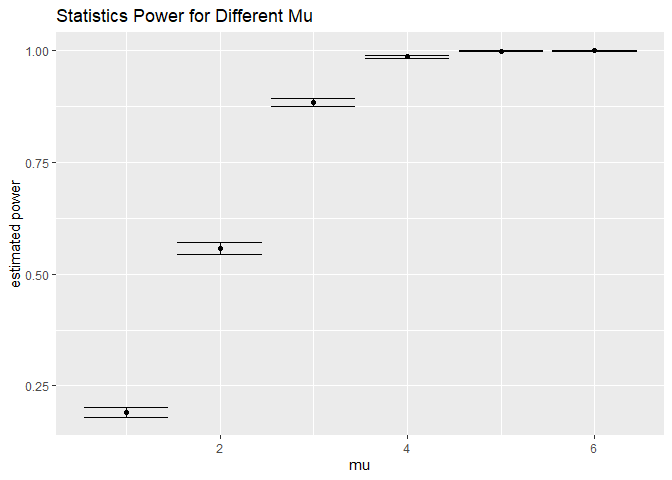
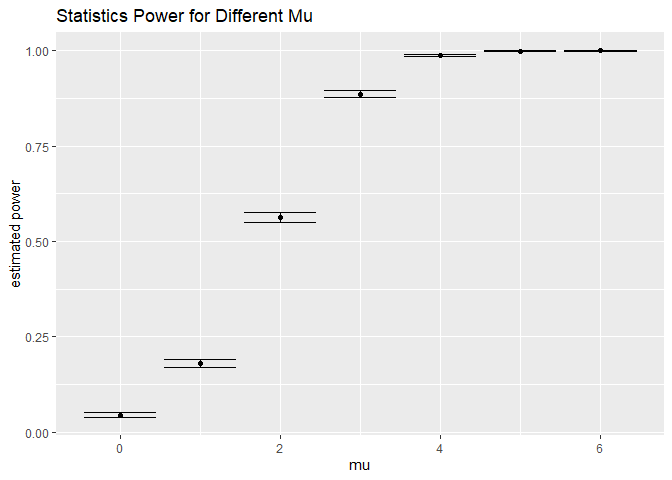
Add mu = 0 to problem 3

diff --git a/p8105_hw5_yj2622.md b/p8105_hw5_yj2622.md
@@ -185,11 +185,11 @@ Set μ as 0 and iterate this function for 5000 times
   bind_rows()
 ```
 
-Repeat the above for μ={1,2,3,4,5,6}
+Repeat the above for μ={0,1,2,3,4,5,6}
 
 ``` r
 sim_results = 
-  tibble(mu = c(1,2,3,4,5,6)) %>% 
+  tibble(mu = c(0,1,2,3,4,5,6)) %>% 
   mutate(
     estimate_dfs = map(.x = mu, ~rerun(5000, sim_mean_p(mean = .x)))
     ) %>% 
@@ -292,7 +292,7 @@ sim_results %>%
     caption = "Only include samples for which the null was rejected",
     y = "average estimate of mu_hat"
   ) +
-  scale_y_continuous(limits = c(1,6.1,2))
+  scale_y_continuous(limits = c(0,6.1,2))
 ```
 
     ## `summarise()` ungrouping output (override with `.groups` argument)
